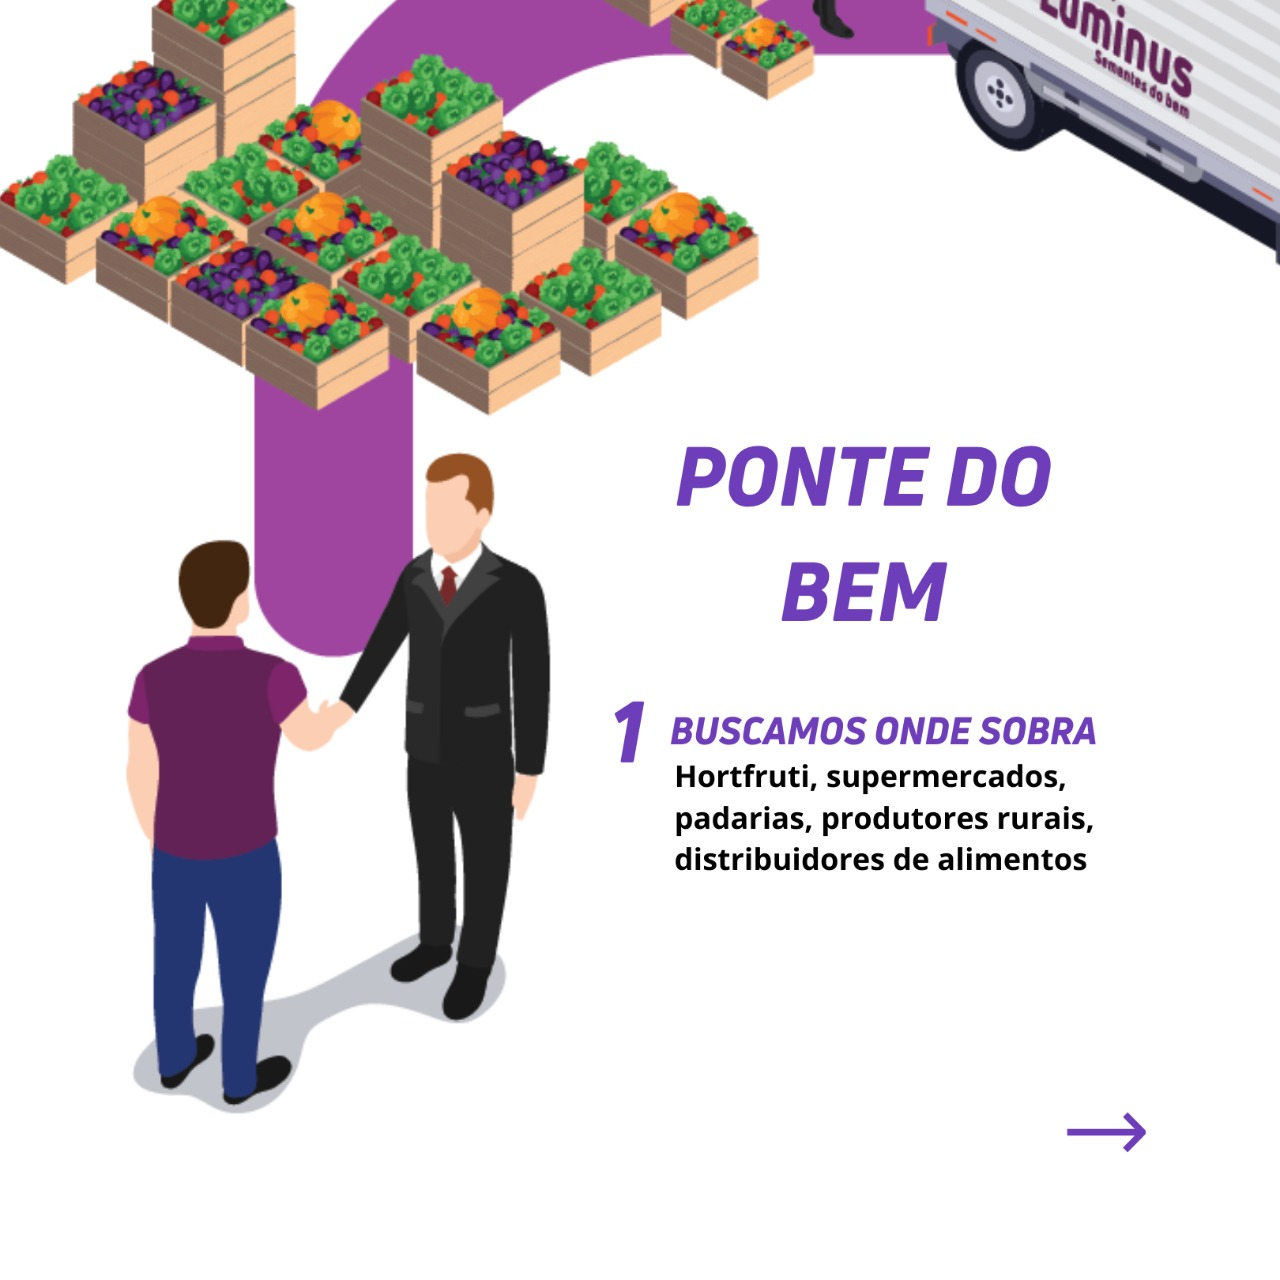
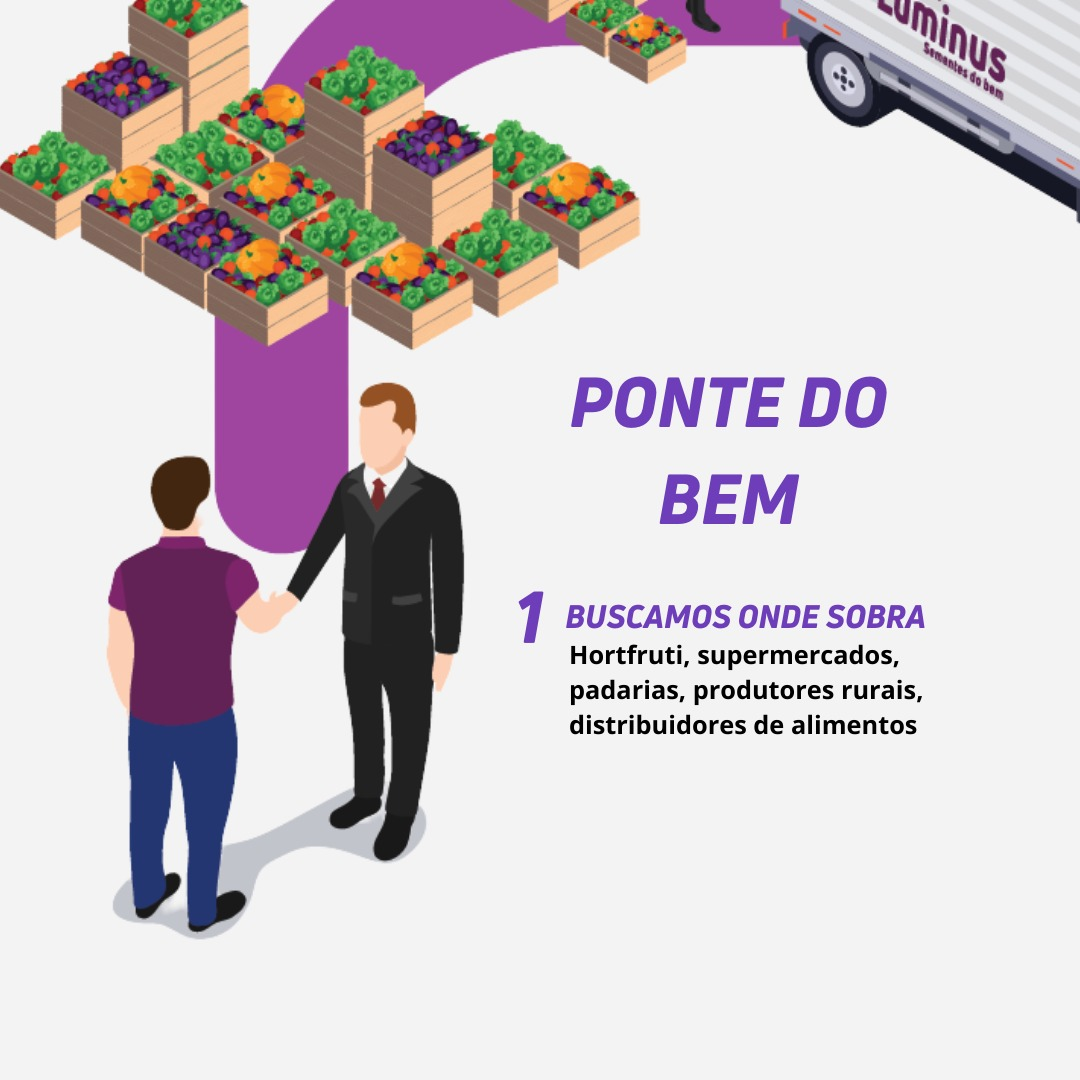
Ajustando page-impactar com as imagens certas do carrosel

diff --git a/css/impactar.css b/css/impactar.css
@@ -195,10 +195,3 @@
 
 	padding: 60px 0 60px 0;
 }
-
-@media (max-width: 720px) {
-	.container-processo-luminus {
-		background: #FFFFFF;
-	}
-}
-
